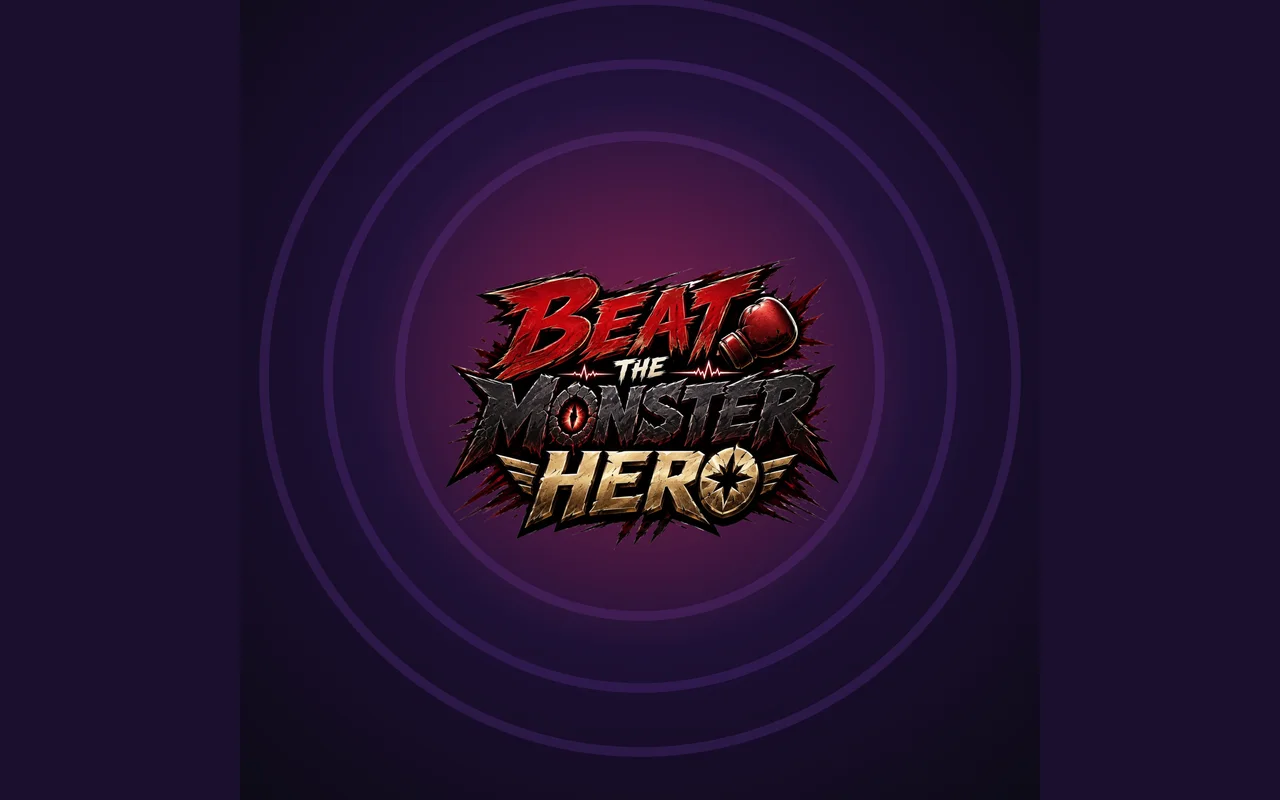
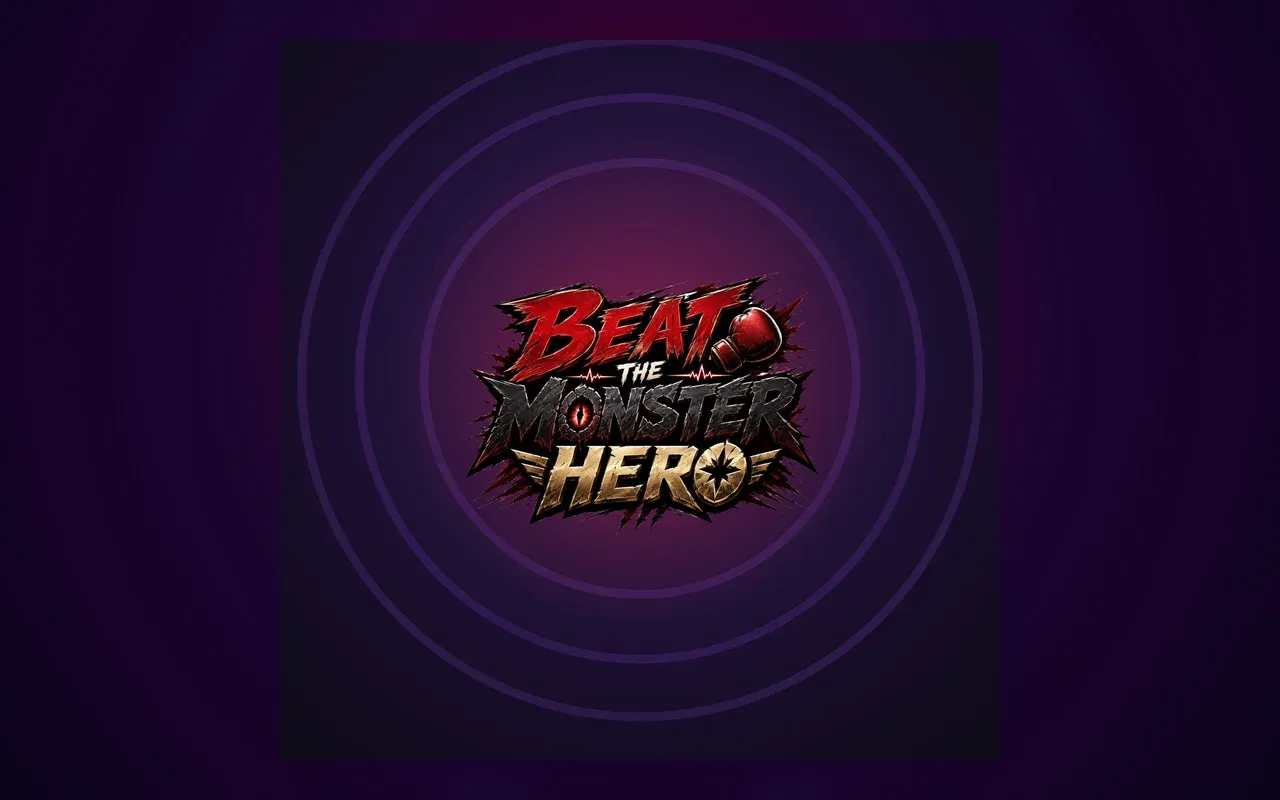
content: uncropped covers and copy rewritten for Spanish search
Covers were being hard-cropped to 16:10, cutting off portrait artwork and
the game logo. Every cover is now composed at exactly 1280x800 so the
card never crops:

- Anime Studio AI: a triptych showing three different registers instead
  of mirroring the client's own carousel, and its gallery copies are gone
- Beat the Monster Hero: artwork fitted whole over a blurred bed of
  itself, no hard edges

Copy:
- The anime write-up no longer frames the brand as cyberpunk; it now
  reflects the actual range (everyday scenes, Japanese folklore,
  underwater compositions, urban portraits)
- Every project follows the same brief/problem/solution/outcome shape and
  carries its own seoTitle and seoDescription
- Category intros and card bullets now lead with the terms people search
  in Spanish (desarrollo de videojuegos, paginas web a medida,
  aplicaciones a medida) instead of abstract phrasing

diff --git a/src/i18n/ui.ts b/src/i18n/ui.ts
@@ -29,15 +29,15 @@ export const ui = {
     'categories.eyebrow': 'Qué hacemos',
     'categories.title': 'Tres disciplinas. Una misma forma de construir.',
     'categories.cta': 'Ver proyectos',
-    'category.game.b1': 'Prototipos jugables desde el inicio',
-    'category.game.b2': 'La mecánica como núcleo del diseño',
-    'category.game.b3': 'Experiencias para móvil y web',
-    'category.saas.b1': 'Interfaces claras y funcionales',
-    'category.saas.b2': 'Automatización de procesos',
-    'category.saas.b3': 'Bases preparadas para escalar',
-    'category.web.b1': 'Diseño editorial a medida',
-    'category.web.b2': 'Rendimiento y SEO cuidados',
-    'category.web.b3': 'Fáciles de mantener y ampliar',
+    'category.game.b1': 'Desarrollo de videojuegos para móvil y web',
+    'category.game.b2': 'Prototipo jugable desde la primera semana',
+    'category.game.b3': 'Mecánicas propias, no plantillas',
+    'category.saas.b1': 'Aplicaciones y herramientas a medida',
+    'category.saas.b2': 'Automatizamos el trabajo repetitivo',
+    'category.saas.b3': 'Preparadas para crecer contigo',
+    'category.web.b1': 'Páginas web a medida, sin plantillas',
+    'category.web.b2': 'Rápidas y posicionadas en Google',
+    'category.web.b3': 'Las actualizas tú, sin depender de nadie',
 
     'featured.label': 'Proyecto destacado',
     'feed.eyebrow': 'Trabajo reciente',
@@ -45,7 +45,7 @@ export const ui = {
     'feed.all': 'Ver todos los proyectos',
 
     'process.eyebrow': 'Cómo trabajamos',
-    'process.title': 'Forma de trabajar',
+    'process.title': 'De la idea al lanzamiento en tres pasos.',
     'process.1.title': 'Idea',
     'process.1.text':
       'Definimos el problema, la oportunidad y el resultado que debe conseguir el producto.',
@@ -74,7 +74,7 @@ export const ui = {
 
     'projects.title': 'Todos los proyectos',
     'projects.intro':
-      'Archivo de todo lo que construimos: videojuegos, herramientas SaaS y experiencias web.',
+      'Videojuegos, herramientas SaaS y páginas web que hemos desarrollado. Todos con demo abierta para que los pruebes.',
     'projects.filter.all': 'Todos',
     'projects.empty': 'Todavía no hay proyectos en esta categoría.',
     'projects.back': 'Volver a proyectos',

diff --git a/src/data/categories.ts b/src/data/categories.ts
@@ -23,8 +23,8 @@ const rawCategories: Category[] = [
       en: 'Interactive experiences, prototypes and projects built around a mechanic or a strong idea.',
     },
     intro: {
-      es: 'Videojuegos y experiencias interactivas construidas alrededor de una idea, una mecánica o una forma distinta de jugar.',
-      en: 'Video games and interactive experiences built around an idea, a mechanic or a different way to play.',
+      es: 'Desarrollo de videojuegos para móvil y web, construidos alrededor de una mecánica propia y jugables desde las primeras semanas.',
+      en: 'Video game development for mobile and web, built around an original mechanic and playable within the first few weeks.',
     },
   },
   {
@@ -37,8 +37,8 @@ const rawCategories: Category[] = [
       en: 'Digital tools that simplify processes, automate work and solve specific problems.',
     },
     intro: {
-      es: 'Productos y herramientas digitales pensados para simplificar procesos, automatizar tareas y crear valor de forma sostenible.',
-      en: 'Digital products and tools designed to simplify processes, automate tasks and create sustainable value.',
+      es: 'Aplicaciones y herramientas a medida que automatizan el trabajo repetitivo y simplifican procesos, preparadas para crecer con el negocio.',
+      en: 'Custom apps and tools that automate repetitive work and simplify processes, built to grow with the business.',
     },
   },
   {
@@ -51,8 +51,8 @@ const rawCategories: Category[] = [
       en: 'Fast, visual sites and digital experiences built to present, sell or validate a proposal.',
     },
     intro: {
-      es: 'Webs y experiencias digitales diseñadas para presentar una marca, validar una idea o convertir atención en acción.',
-      en: 'Websites and digital experiences designed to present a brand, validate an idea or turn attention into action.',
+      es: 'Diseño y desarrollo de páginas web a medida: rápidas, posicionadas en buscadores y pensadas para convertir visitas en clientes.',
+      en: 'Custom website design and development: fast, search-friendly and built to turn visits into customers.',
     },
   },
 ];

diff --git a/src/content/projects/es/anime-studio-ai.md b/src/content/projects/es/anime-studio-ai.md
@@ -2,16 +2,13 @@
 title: "Anime Studio AI"
 slug: "anime-studio-ai"
 category: "web"
-excerpt: "Web de marca para un estudio de ilustración anime con IA: portada editorial, galería de obra y enlaces a encargos y redes."
+excerpt: "Web de marca para un estudio de ilustración anime: galería a pantalla completa y enlaces ordenados para encargos y redes."
 featured: false
 published: true
 year: 2026
 status: "Lanzado"
 cover: "/projects/anime-studio-ai/cover.webp"
-coverAlt: "Portada de Anime Studio AI con ilustración anime y el nombre de la marca"
-gallery:
-  - "/projects/anime-studio-ai/screen-01.webp"
-  - "/projects/anime-studio-ai/screen-02.webp"
+coverAlt: "Tres ilustraciones de Anime Studio AI: escena de interior, folclore japonés y composición acuática"
 demoUrl: "https://anime-studio-ai.pages.dev/"
 technologies:
   - HTML
@@ -20,21 +17,25 @@ technologies:
 services:
   - Dirección de arte
   - Desarrollo web
+seoTitle: "Anime Studio AI — Web de ilustración anime | MAI Softwares"
+seoDescription: "Diseño y desarrollo de la web de un estudio de ilustración anime: galería a pantalla completa, carga rápida y enlaces ordenados para captar encargos."
 layoutVariant: "split-right"
 ---
 
-## Contexto
+## El encargo
 
-Sitio de presentación para una marca de ilustración anime generada con IA. Funciona como escaparate de obra y punto de entrada a encargos y redes.
+Un estudio de ilustración anime necesitaba un sitio propio: un lugar donde enseñar la obra sin las reglas de cada red social y donde recibir encargos.
 
-## Problema u oportunidad
+## El problema
 
-El trabajo visual se dispersa entre plataformas. La oportunidad: un espacio propio donde la obra manda y los enlaces están ordenados por intención.
+El trabajo estaba repartido entre plataformas. Cada una recorta las imágenes a su manera, entierra las publicaciones antiguas y deja los enlaces importantes escondidos en la biografía.
 
-## Solución
+## La solución
 
-Estética cyber-noir de neón, galería a pantalla completa, jerarquía clara entre enlaces de encargo y de comunidad. Estático y muy ligero.
+Una web ligera donde manda la imagen. La galería ocupa la pantalla completa y respeta el formato original de cada pieza, sin recortes. Los enlaces están separados por intención: primero encargos, después comunidad.
 
-## Resultado o estado
+El catálogo abarca registros muy distintos —escenas cotidianas, folclore japonés, composiciones acuáticas, retratos urbanos—, así que la interfaz se mantiene neutra y oscura para que ninguna paleta compita con la obra.
 
-Publicada y en uso como web principal de la marca.
+## Resultado
+
+Publicada y en uso como web principal de la marca. Estática, sin dependencias y con margen para añadir obra nueva sin tocar el código.

diff --git a/src/content/projects/en/anime-studio-ai.md b/src/content/projects/en/anime-studio-ai.md
@@ -2,16 +2,13 @@
 title: "Anime Studio AI"
 slug: "anime-studio-ai"
 category: "web"
-excerpt: "Brand site for an AI anime illustration studio: editorial cover, artwork gallery and links for commissions and socials."
+excerpt: "Brand site for an anime illustration studio: full-bleed gallery and links ordered for commissions and socials."
 featured: false
 published: true
 year: 2026
 status: "Lanzado"
 cover: "/projects/anime-studio-ai/cover.webp"
-coverAlt: "Anime Studio AI cover with anime artwork and the brand name"
-gallery:
-  - "/projects/anime-studio-ai/screen-01.webp"
-  - "/projects/anime-studio-ai/screen-02.webp"
+coverAlt: "Three Anime Studio AI illustrations: an interior scene, Japanese folklore and an underwater composition"
 demoUrl: "https://anime-studio-ai.pages.dev/"
 technologies:
   - HTML
@@ -20,21 +17,25 @@ technologies:
 services:
   - Art direction
   - Web development
+seoTitle: "Anime Studio AI — Anime illustration website | MAI Softwares"
+seoDescription: "Design and development of an anime illustration studio's website: full-bleed gallery, fast loading and links ordered to win commissions."
 layoutVariant: "split-right"
 ---
 
-## Context
+## The brief
 
-Showcase site for an AI-generated anime illustration brand. It works as a portfolio of artwork and an entry point for commissions and socials.
+An anime illustration studio needed a home of its own: somewhere to show the work without each platform's rules, and somewhere to take commissions.
 
-## Problem / opportunity
+## The problem
 
-Visual work gets scattered across platforms. The opportunity: an owned space where the artwork leads and links are ordered by intent.
+The work was scattered across platforms. Each one crops images its own way, buries older posts and hides the links that matter in a bio.
 
-## Solution
+## The solution
 
-Neon cyber-noir aesthetic, full-bleed gallery, clear hierarchy between commission and community links. Static and very lightweight.
+A lightweight site where the image leads. The gallery runs full-bleed and keeps each piece's original format, uncropped. Links are split by intent: commissions first, community second.
 
-## Outcome / status
+The catalogue spans very different registers — everyday scenes, Japanese folklore, underwater compositions, urban portraits — so the interface stays dark and neutral, letting no palette compete with the artwork.
 
-Published and in use as the brand's main site.
+## Outcome
+
+Published and in use as the brand's main site. Static, dependency-free, and easy to extend with new work without touching the code.

diff --git a/src/content/projects/es/beat-the-monster-hero.md b/src/content/projects/es/beat-the-monster-hero.md
@@ -2,13 +2,13 @@
 title: "Beat the Monster Hero"
 slug: "beat-the-monster-hero"
 category: "game"
-excerpt: "JRPG rítmico para móvil donde luchas moviendo el teléfono: la cámara detecta tus golpes al ritmo de la música."
+excerpt: "JRPG rítmico para móvil: la cámara detecta tus golpes y el combate se juega moviendo el cuerpo, no pulsando botones."
 featured: true
 published: true
 year: 2026
 status: "En desarrollo"
 cover: "/projects/beat-the-monster-hero/cover.webp"
-coverAlt: "Logotipo de Beat the Monster Hero sobre fondo morado"
+coverAlt: "Logotipo de Beat the Monster Hero sobre un fondo morado con ondas concéntricas"
 gallery:
   - "/projects/beat-the-monster-hero/screen-01.webp"
 demoUrl: "https://beatthemonsterhero.pages.dev/"
@@ -19,21 +19,25 @@ technologies:
 services:
   - Diseño de juego
   - Desarrollo móvil
+seoTitle: "Beat the Monster Hero — Juego rítmico con cámara | MAI Softwares"
+seoDescription: "Desarrollo de un JRPG rítmico para móvil que usa la cámara como mando: detección de movimiento en tiempo real con TypeScript y MediaPipe."
 layoutVariant: "featured"
 ---
 
-## Contexto
+## La idea
 
-Un JRPG por turnos donde el combate no se juega con botones: la cámara del móvil detecta el movimiento del jugador y traduce sus golpes al compás de la música.
+Un JRPG por turnos donde el combate no se pulsa: la cámara del móvil lee tu movimiento y convierte cada golpe en un acierto al compás de la música.
 
-## Problema u oportunidad
+## El problema
 
-El control táctil limita la sensación física de un juego de combate rítmico. La oportunidad: usar la cámara como mando y convertir el cuerpo en el sistema de entrada.
+Los juegos rítmicos móviles se juegan con el pulgar. Eso limita justo lo que hace divertido un combate: la sensación física de golpear.
 
-## Solución
+## La solución
 
-Detección de movimiento en tiempo real, combos ligados al tempo, progresión con equipo y coach que guía al jugador. Todo pensado para una sola mano y sesiones cortas.
+La cámara pasa a ser el mando. El juego detecta la postura en tiempo real y valida los golpes contra el tempo de cada canción. Alrededor hay progresión con equipo, un entrenador que guía al jugador y partidas cortas pensadas para jugar de pie.
 
-## Resultado o estado
+Todo corre en el propio dispositivo: nada de vídeo sale del móvil.
 
-En desarrollo activo. Versión web jugable disponible; APK Android en preparación.
+## Estado
+
+En desarrollo activo. Hay versión web jugable y el APK de Android está en preparación.

diff --git a/src/content/projects/es/mai-expenses.md b/src/content/projects/es/mai-expenses.md
@@ -2,13 +2,13 @@
 title: "MAI Expenses"
 slug: "mai-expenses"
 category: "saas"
-excerpt: "Control de gastos que lee tus tickets con la cámara: foto, reconocimiento de texto y reparto por categorías, sin cuentas ni servidores."
+excerpt: "App de gastos que lee tus tickets con la cámara: foto, reconocimiento de texto y reparto por categorías. Sin cuentas ni servidores."
 featured: false
 published: true
 year: 2026
 status: "Lanzado"
 cover: "/projects/mai-expenses/cover.webp"
-coverAlt: "Interfaz de MAI Expenses con resumen mensual de gastos"
+coverAlt: "Pantalla principal de MAI Expenses con el resumen mensual de gastos"
 demoUrl: "https://maiexpenses.pages.dev/"
 technologies:
   - TypeScript
@@ -17,21 +17,23 @@ technologies:
 services:
   - Diseño UI/UX
   - Desarrollo PWA
+seoTitle: "MAI Expenses — App de gastos con lectura de tickets | MAI Softwares"
+seoDescription: "Desarrollo de una app de control de gastos que escanea tickets con la cámara. Reconocimiento de texto en el propio móvil, sin registro ni servidores."
 layoutVariant: "split-left"
 ---
 
-## Contexto
+## La idea
 
-Una app de gastos que elimina el paso más tedioso: teclear. Se fotografía el ticket y el texto se reconoce en el propio dispositivo.
+Una app de gastos que elimina el paso que hace que todo el mundo la abandone: teclear. Se fotografía el ticket y el texto se reconoce en el propio móvil.
 
-## Problema u oportunidad
+## El problema
 
-Las apps de finanzas exigen registro, sincronización y confianza en un servidor ajeno. La oportunidad: hacerlo todo en local, sin cuentas.
+Las apps de finanzas piden registro, sincronizan tus movimientos y guardan en un servidor ajeno datos que dicen mucho de ti. Mucha gente lo deja ahí.
 
-## Solución
+## La solución
 
-PWA instalable con OCR en el navegador, reparto automático por categorías, resumen mensual, historial y soporte multiidioma. Sin backend: los datos no salen del dispositivo.
+Todo ocurre en local. El reconocimiento de texto corre en el navegador, los datos no salen del dispositivo y no hay cuenta que crear. Una sola pantalla: capturar, ver el reparto por categorías y consultar el histórico. Disponible en cinco idiomas.
 
-## Resultado o estado
+## Resultado
 
-Publicada y en uso. Disponible como web instalable y como APK para Android.
+Publicada y en uso. Se instala como app desde el navegador y también existe APK para Android.

diff --git a/src/content/projects/en/beat-the-monster-hero.md b/src/content/projects/en/beat-the-monster-hero.md
@@ -2,13 +2,13 @@
 title: "Beat the Monster Hero"
 slug: "beat-the-monster-hero"
 category: "game"
-excerpt: "Mobile rhythm JRPG where you fight by moving your phone: the camera reads your punches in time with the music."
+excerpt: "Mobile rhythm JRPG: the camera reads your punches, so combat is played with your body instead of buttons."
 featured: true
 published: true
 year: 2026
 status: "En desarrollo"
 cover: "/projects/beat-the-monster-hero/cover.webp"
-coverAlt: "Beat the Monster Hero logo on a purple background"
+coverAlt: "Beat the Monster Hero logo on a purple background with concentric waves"
 gallery:
   - "/projects/beat-the-monster-hero/screen-01.webp"
 demoUrl: "https://beatthemonsterhero.pages.dev/"
@@ -19,21 +19,25 @@ technologies:
 services:
   - Game design
   - Mobile development
+seoTitle: "Beat the Monster Hero — Camera-driven rhythm game | MAI Softwares"
+seoDescription: "Development of a mobile rhythm JRPG that turns the camera into the controller: real-time motion tracking with TypeScript and MediaPipe."
 layoutVariant: "featured"
 ---
 
-## Context
+## The idea
 
-A turn-based JRPG where combat isn't played with buttons: the phone camera tracks the player's movement and turns punches into beats.
+A turn-based JRPG where combat isn't tapped: the phone camera reads your movement and turns every punch into a hit on the beat.
 
-## Problem / opportunity
+## The problem
 
-Touch controls limit the physical feel of a rhythm fighting game. The opportunity: use the camera as the controller and make the body the input system.
+Mobile rhythm games are played with a thumb. That strips out the very thing that makes a fight fun: the physical feel of landing a blow.
 
-## Solution
+## The solution
 
-Real-time motion detection, tempo-locked combos, gear progression and a coach that guides the player. Built for one hand and short sessions.
+The camera becomes the controller. The game tracks posture in real time and scores punches against each track's tempo. Around that sit gear progression, a coach that guides the player, and short rounds designed to be played standing up.
 
-## Outcome / status
+Everything runs on the device: no video ever leaves the phone.
 
-In active development. Playable web build available; Android APK in preparation.
+## Status
+
+In active development. A playable web build is live and the Android APK is in preparation.

diff --git a/src/content/projects/en/mai-expenses.md b/src/content/projects/en/mai-expenses.md
@@ -2,13 +2,13 @@
 title: "MAI Expenses"
 slug: "mai-expenses"
 category: "saas"
-excerpt: "Expense tracker that reads your receipts with the camera: snap, recognise the text, split by category — no accounts, no servers."
+excerpt: "Expense app that reads your receipts with the camera: snap, recognise the text, split by category. No accounts, no servers."
 featured: false
 published: true
 year: 2026
 status: "Lanzado"
 cover: "/projects/mai-expenses/cover.webp"
-coverAlt: "MAI Expenses interface showing the monthly expense summary"
+coverAlt: "MAI Expenses main screen showing the monthly expense summary"
 demoUrl: "https://maiexpenses.pages.dev/"
 technologies:
   - TypeScript
@@ -17,21 +17,23 @@ technologies:
 services:
   - UI/UX design
   - PWA development
+seoTitle: "MAI Expenses — Expense app with receipt scanning | MAI Softwares"
+seoDescription: "Development of an expense tracker that scans receipts with the camera. Text recognition runs on the phone itself, with no sign-up and no servers."
 layoutVariant: "split-left"
 ---
 
-## Context
+## The idea
 
-An expense app that removes the most tedious step: typing. Photograph the receipt and the text is recognised on the device itself.
+An expense app that removes the step everyone quits over: typing. Photograph the receipt and the text is recognised on the phone itself.
 
-## Problem / opportunity
+## The problem
 
-Finance apps demand sign-up, sync and trust in someone else's server. The opportunity: do it all locally, with no accounts.
+Finance apps ask you to sign up, sync your movements and keep data that says a lot about you on someone else's server. Plenty of people stop right there.
 
-## Solution
+## The solution
 
-Installable PWA with in-browser OCR, automatic category split, monthly summary, history and multi-language support. No backend: data never leaves the device.
+Everything happens locally. Text recognition runs in the browser, data never leaves the device, and there is no account to create. One screen: capture, see the split by category, check the history. Available in five languages.
 
-## Outcome / status
+## Outcome
 
-Published and in use. Available as an installable web app and as an Android APK.
+Published and in use. It installs as an app straight from the browser, and an Android APK is available too.
